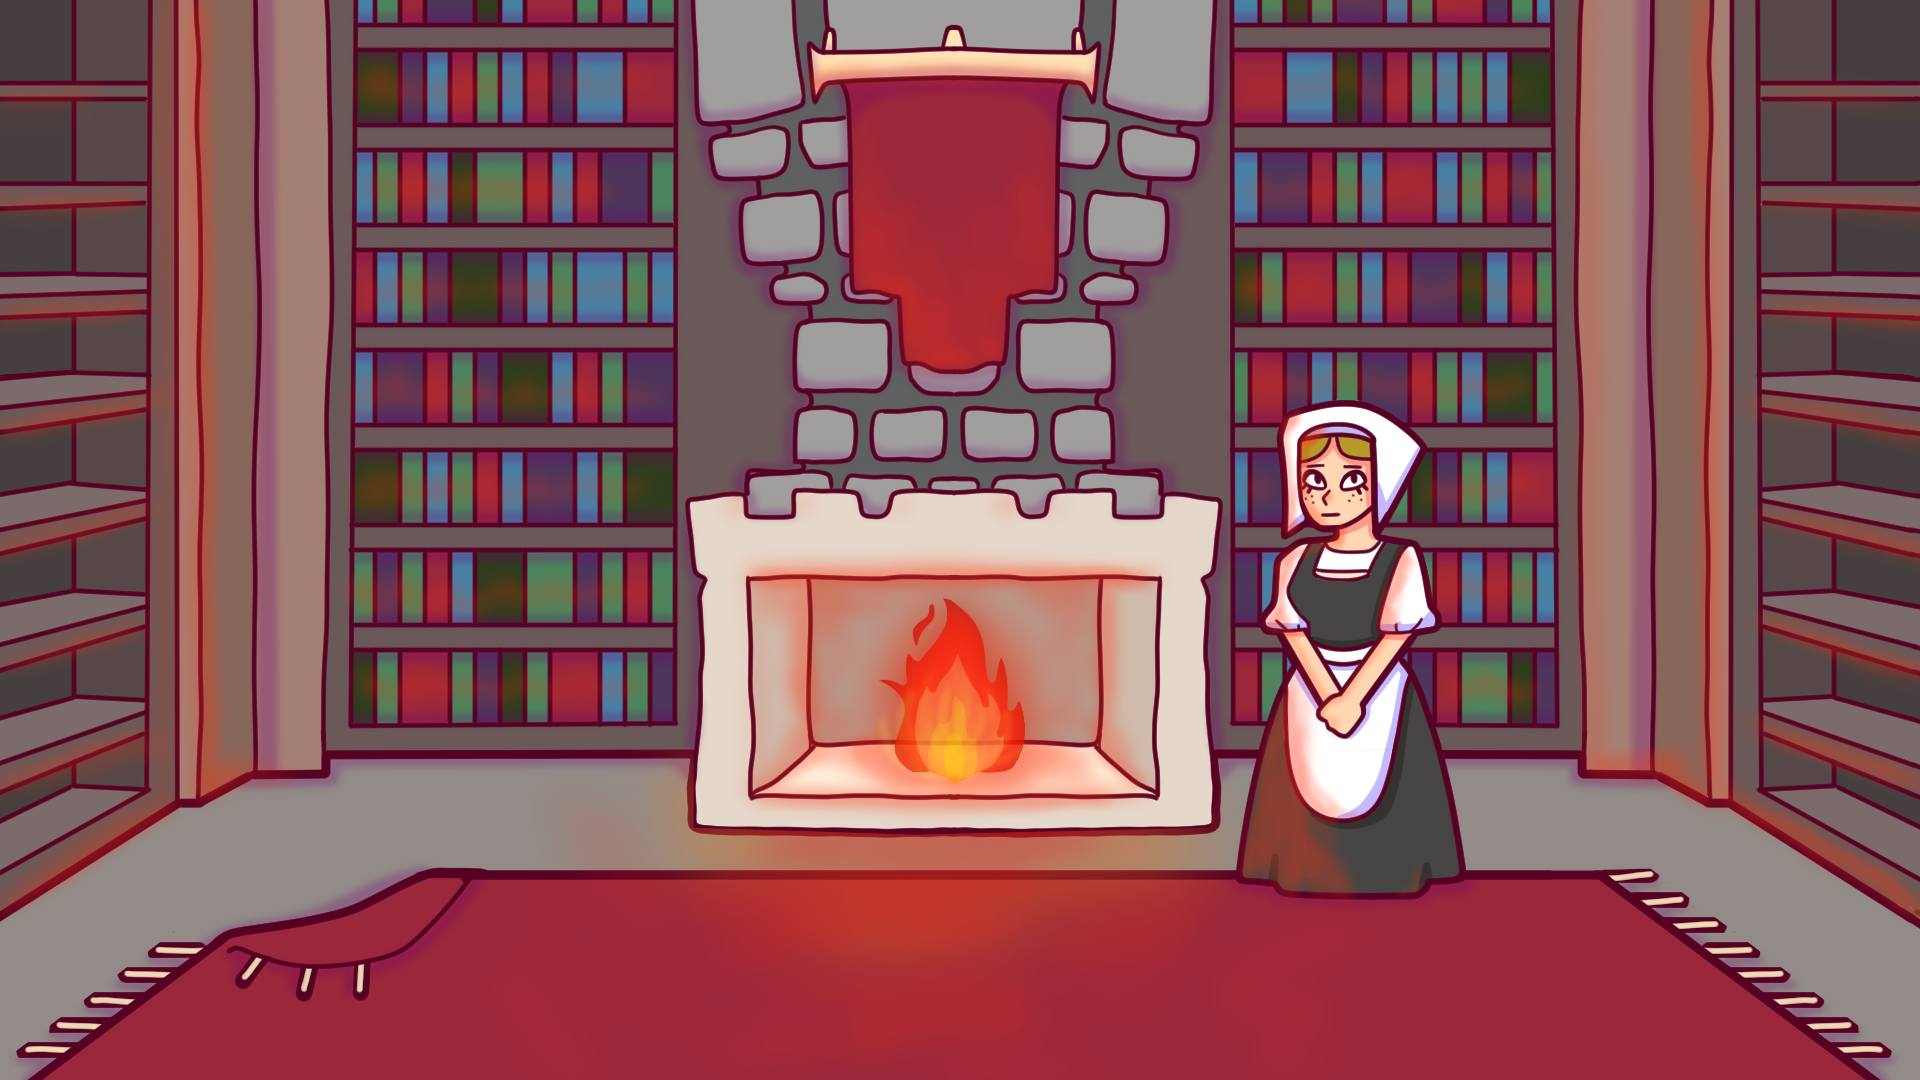
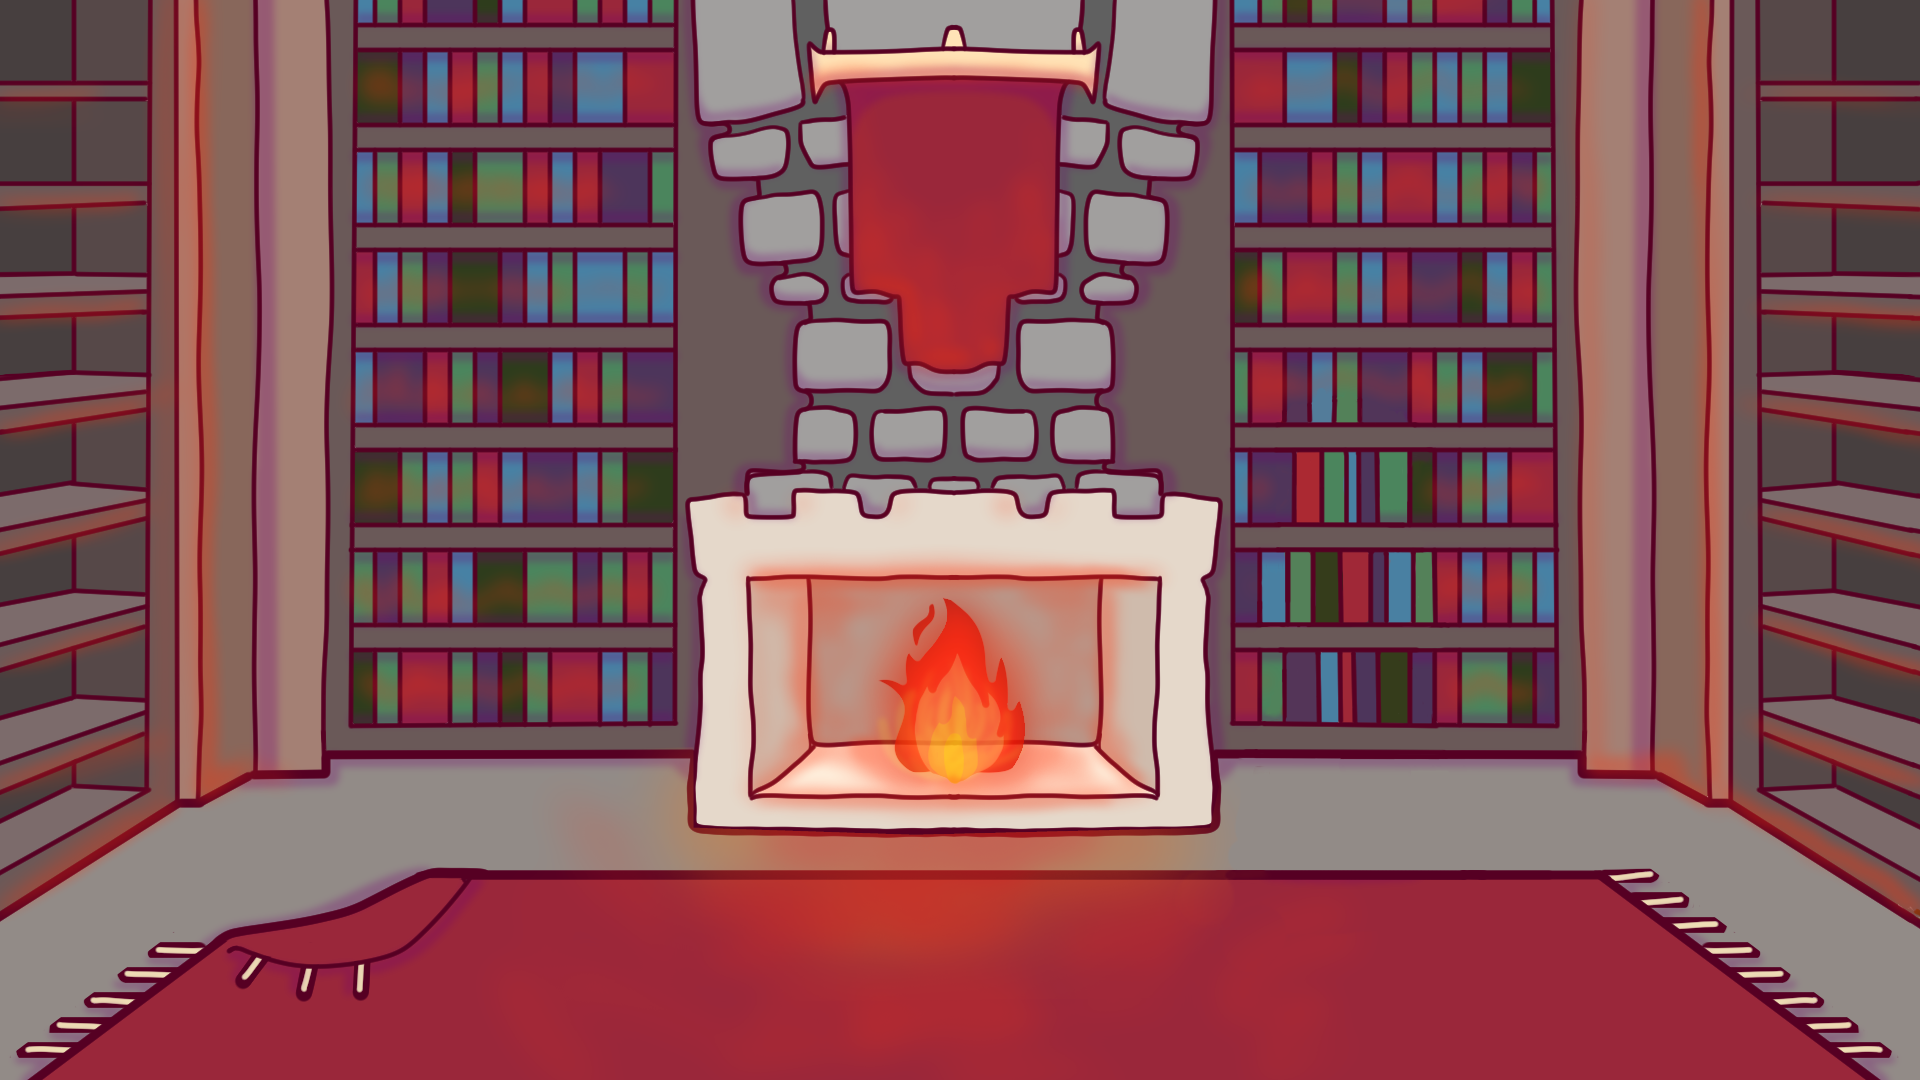
Edited maid out of background, added temp sprites for queen, fixed continue button breaking after first usage

Changed region(s): [[0.625, 0.3667, 0.7812, 0.8556]]

diff --git a/scenes/ui/dialogue/DialogueView.cs b/scenes/ui/dialogue/DialogueView.cs
@@ -49,7 +49,6 @@ public partial class DialogueView : Node, DialogueViewBase
     public void RunLine(LocalizedLine dialogueLine, Action onDialogueLineFinished) {
 		_onLineFinishedAction = onDialogueLineFinished;
 
-		//bool lastLine = dialogueLine?.Metadata?.Contains("lastline") ?? false;
 		bool withNext = dialogueLine?.Metadata?.Contains("withnext") ?? false;
 
 		TitleLabel?.Set(Label.PropertyName.Text, dialogueLine.CharacterName);
@@ -64,7 +63,8 @@ public partial class DialogueView : Node, DialogueViewBase
 	}
 
 	private void OnContinue() {
-		if (State != DialogueState.DisplayingLine) return;
+		//GD.Print($"Continue Pressed - Current State is {Enum.GetName(State)}");
+		//if (State != DialogueState.DisplayingLine) return;
 
 		_onLineFinishedAction?.Invoke();
 	}
@@ -74,6 +74,7 @@ public partial class DialogueView : Node, DialogueViewBase
     }
 
 	public void DismissLine(Action onDismissalComplete) {
+
 		ContinueButton.Hide();
         onDismissalComplete?.Invoke();
 		State = DialogueState.Waiting;

diff --git a/addons/YarnSpinner-Godot/Runtime/DialogueRunner.cs b/addons/YarnSpinner-Godot/Runtime/DialogueRunner.cs
@@ -907,12 +907,6 @@ public partial class DialogueRunner : Godot.Node
             }
         }
 
-        if (dialogueViews.Count == 0)
-        {
-            GD.PrintErr(
-                "Dialogue Runner doesn't have any dialogue views set up. No lines or options will be visible.");
-        }
-
         foreach (var view in dialogueViews.Where(IsInstanceValid))
         {
             (view as DialogueViewBase).requestInterrupt = OnViewRequestedInterrupt;

diff --git a/scenes/singleton/DialogueManager.cs b/scenes/singleton/DialogueManager.cs
@@ -18,7 +18,7 @@ public partial class DialogueManager : Node
             startAutomatically = false
         };
         AddChild(Runner);
-        //Runner.SetDialogueViews(_dialogueViews);
+        Runner.SetDialogueViews(_dialogueViews);
         Runner.Ready += () => { Runner.SetDialogueViews(_dialogueViews); };
     }
 
